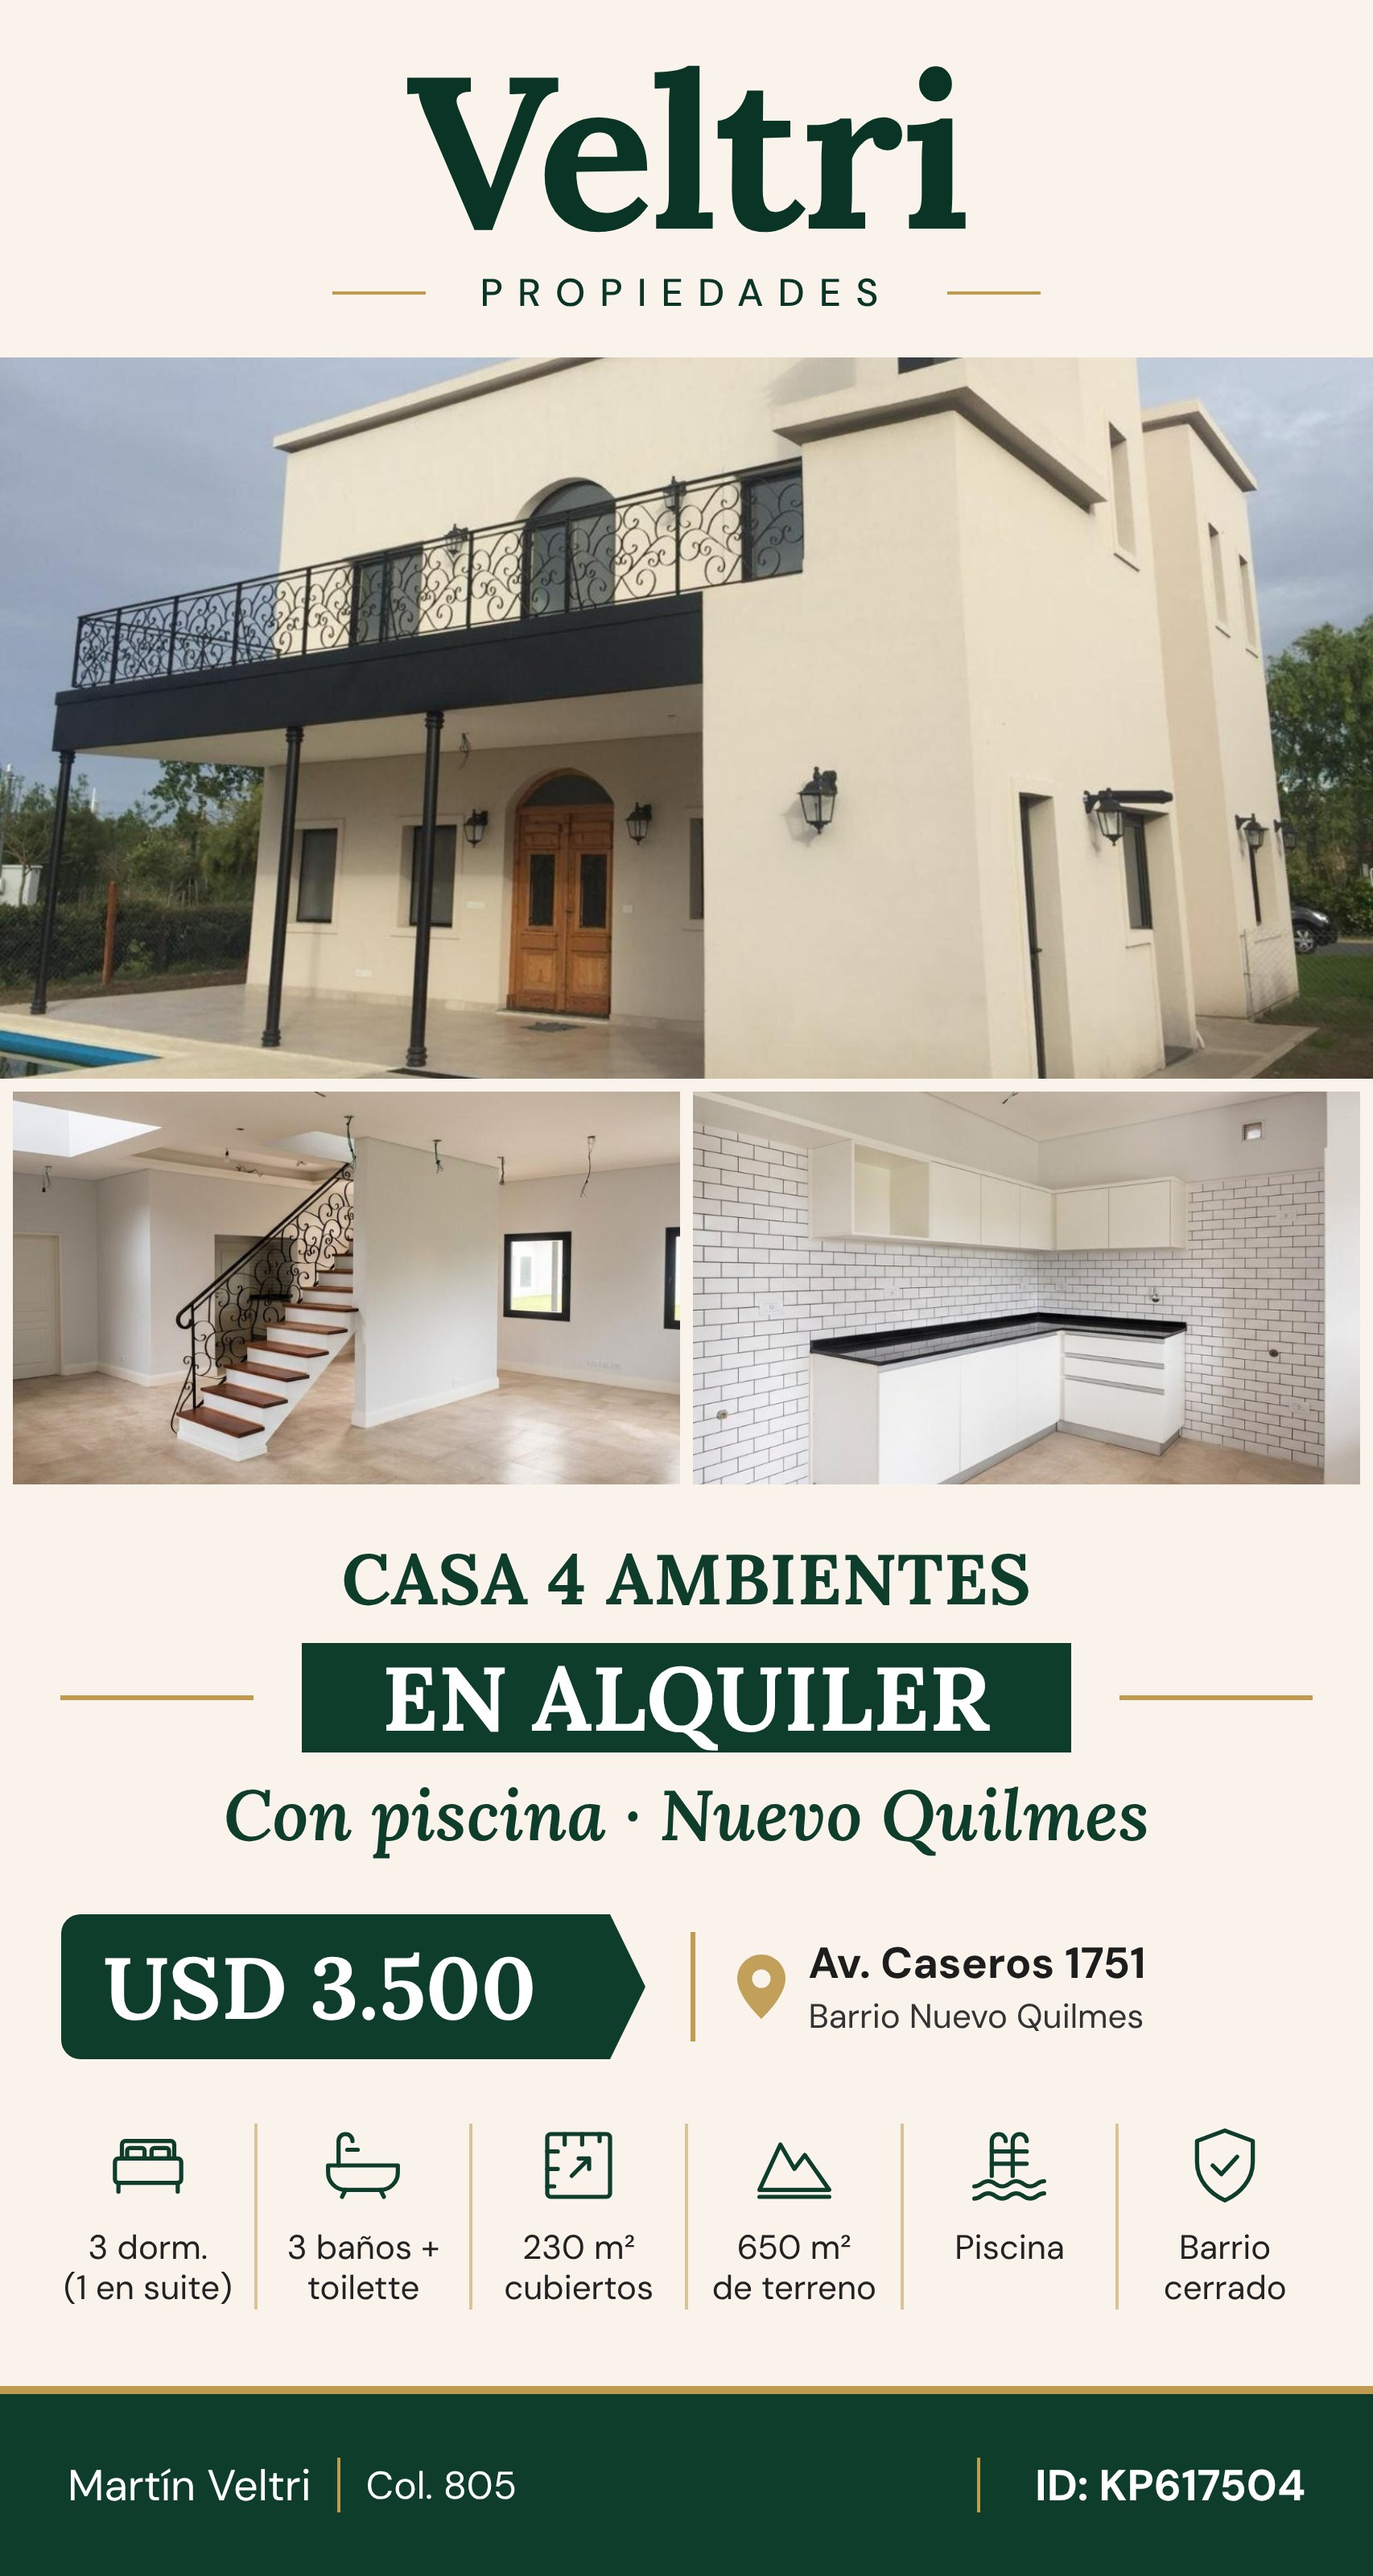
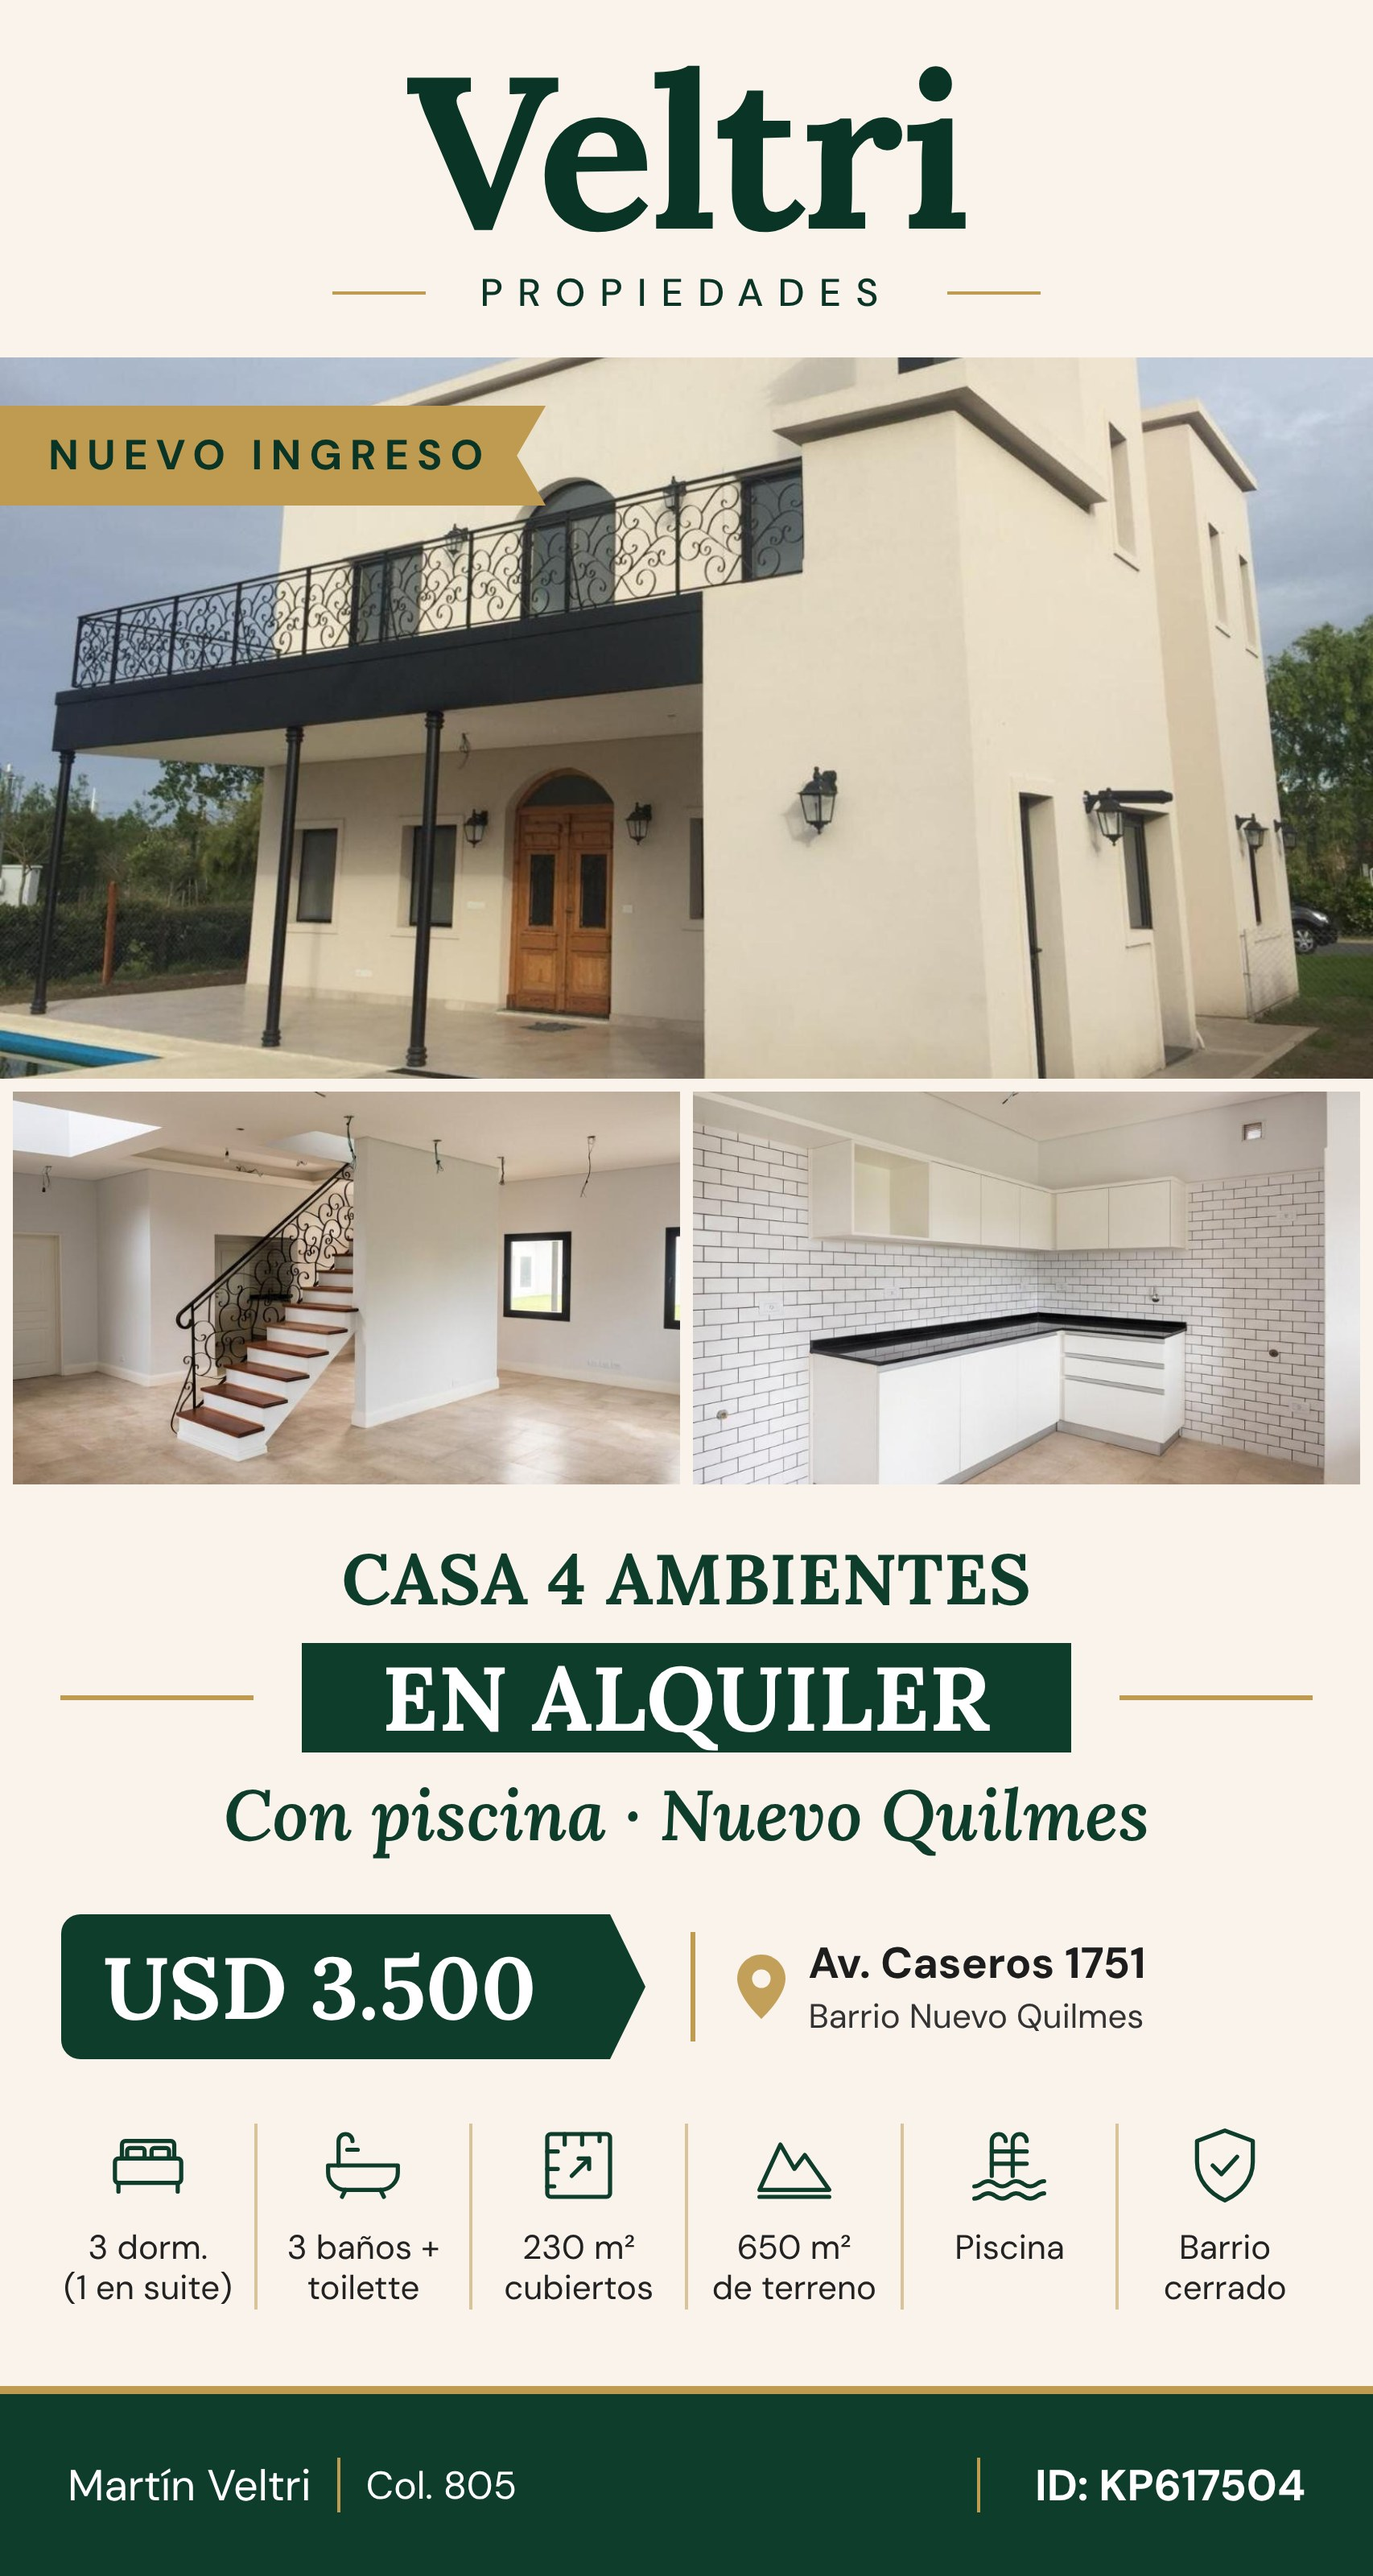
Flyers KP617504 y KP617523 con cinta Nuevo ingreso
Claude-Session: https://claude.ai/code/session_01QVynf5azA7Q9ZAkayFiAjJ

Changed region(s): [[0.0, 0.1562, 0.4039, 0.2188]]

diff --git a/sw.js b/sw.js
@@ -1,4 +1,4 @@
-const C='misflyers-v20';
+const C='misflyers-v21';
 self.addEventListener('install',e=>{self.skipWaiting()});
 self.addEventListener('activate',e=>{e.waitUntil(caches.keys().then(k=>Promise.all(k.filter(n=>n!==C).map(n=>caches.delete(n)))).then(()=>self.clients.claim()))});
 self.addEventListener('fetch',e=>{if(e.request.method!=='GET')return;
